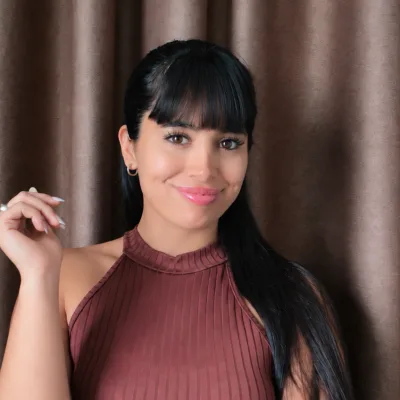
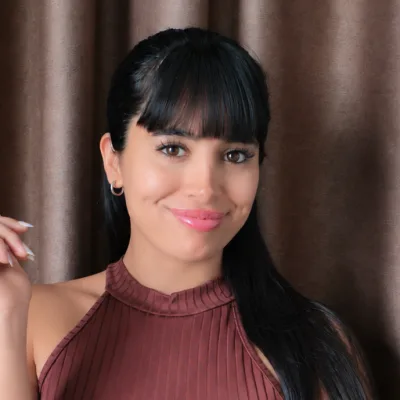
Move testimonials into the existing carousel; tighten portrait crops
The screenshots belong in the carousel that was already in the
"Lo que están logrando nuestras alumnas" section, not in a separate
grid. Drop the grid added in 60c13d8 and put the 8 screenshots in the
carousel as slides, one per .lp-test-card, replacing the placeholder
cards. Track, arrows, snap and drag behaviour are untouched: it still
swipes with arrows on mobile and becomes a full-width grid from 900px.
Images keep loading="lazy" and their intrinsic width/height.

Cards now hug their content height (align-self: flex-start). The
screenshots differ a lot in aspect ratio, and the default stretch left
a large empty area under the shorter ones.

Re-crop both portraits from the originals, framed on the head rather
than the image centre: the crop is now 2.6x the detected face box
starting just above the hairline, so the head sits near the top of the
circle and the shoulders are visible. Same 400x400 WebP q82 output and
same filenames; the circle itself is unchanged.

diff --git a/index.html b/index.html
@@ -676,25 +676,6 @@
      Comportamiento técnico: overflow-x scroll + snap, igual a la referencia.
      ========================================================================== */
   .lp-testimonials { padding: 72px 0; }
-
-  /* Capturas reales de alumnas: grilla tipo mosaico (columnas) para que las
-     capturas de distinta altura queden compactas. 1 columna en celular. */
-  .lp-test-shots {
-    columns: 1;
-    column-gap: 18px;
-    margin-bottom: 40px;
-  }
-  .lp-test-shot {
-    break-inside: avoid;
-    margin: 0 0 18px;
-    background: var(--bg-card);
-    border: 1px solid var(--violet-border);
-    border-radius: var(--radius-md);
-    overflow: hidden;
-    box-shadow: 0 12px 30px rgba(0, 0, 0, 0.3);
-  }
-  .lp-test-shot img { display: block; width: 100%; height: auto; }
-
   .lp-test-wrap { position: relative; }
   .lp-test-track {
     display: flex;
@@ -710,6 +691,7 @@
   .lp-test-track::-webkit-scrollbar { display: none; }
   .lp-test-card {
     flex: 0 0 280px;
+    align-self: flex-start;
     background: var(--bg-card);
     border: 1px solid var(--violet-border);
     border-radius: var(--radius-md);
@@ -719,6 +701,14 @@
     display: flex;
     flex-direction: column;
     gap: 14px;
+  }
+  /* Captura de testimonio dentro de la tarjeta: ocupa el ancho disponible y
+     conserva su proporción. La tarjeta (fondo, borde, radio, padding) no cambia. */
+  .lp-test-card img {
+    display: block;
+    width: 100%;
+    height: auto;
+    border-radius: var(--radius-sm);
   }
   .lp-test-quote {
     font-size: 15px;
@@ -838,14 +828,8 @@
     .lp-modules { gap: 26px; }
   }
 
-  @media (min-width: 640px) {
-    .lp-test-shots { columns: 2; }
-  }
-
   @media (min-width: 900px) {
     .lp-container, .lp-container-narrow { padding: 0 24px; }
-
-    .lp-test-shots { columns: 3; column-gap: 20px; }
 
     /* Testimonios en desktop: grilla a todo el ancho del contenedor, sin carrusel ni flechas.
        auto-fit reparte el ancho entre las tarjetas que haya (3, 4, 5...). */
@@ -1083,10 +1067,9 @@
 
   <!-- ======================================================================
        BLOQUE 8 — TESTIMONIOS (carrusel horizontal)
-       ⚠ Sin testimonios reales confirmados todavía. Las tarjetas de abajo son
-       PLACEHOLDER — reemplazar por capturas / videos / resultados reales
-       apenas estén disponibles (o por capturas del propio proceso/facturación
-       de Ahilu y Cami, según se definió como alternativa temporal).
+       Capturas reales de alumnas (assets/testimonios/), una por slide.
+       Se mantiene el comportamiento del carrusel: scroll con snap + drag +
+       flechas en mobile, y grilla a todo el ancho desde 900px.
        ====================================================================== -->
 
   <section class="lp-testimonials">
@@ -1096,85 +1079,47 @@
       </div>
     </div>
 
-    <div class="lp-container">
-      <!-- CAPTURAS REALES DE TESTIMONIOS (carpeta assets/testimonios/) -->
-      <div class="lp-test-shots">
-        <figure class="lp-test-shot">
-          <img src="assets/testimonios/12e0bf77-874f-4ea8-b1c7-926820a0f253.webp" width="800" height="1008" loading="lazy" decoding="async" alt="Captura del mensaje de Nelsy, alumna: facturó más de 15 millones en 17 días, con 6.000.000 de ganancia limpia y un pico de 125 ventas en un solo día.">
-        </figure>
-        <figure class="lp-test-shot">
-          <img src="assets/testimonios/img-5481.webp" width="765" height="979" loading="lazy" decoding="async" alt="Captura del mensaje de Ro, alumna: llegó por primera vez a 40 ventas diarias, con 903,9 mil pesos en ventas totales, y cuenta que ya factura más de lo que ganaba en su antiguo trabajo.">
-        </figure>
-        <figure class="lp-test-shot">
-          <img src="assets/testimonios/img-5483.webp" width="781" height="999" loading="lazy" decoding="async" alt="Captura del mensaje de Nahue, alumno: 24,49 millones de pesos facturados en los últimos 30 días con más de 1.000 pedidos.">
-        </figure>
-        <figure class="lp-test-shot">
-          <img src="assets/testimonios/img-5485.webp" width="800" height="1112" loading="lazy" decoding="async" alt="Captura del mensaje de Mica, alumna: 3.012.506 pesos facturados en 7 días con 118 pedidos, duplicando su sueldo en una semana.">
-        </figure>
-        <figure class="lp-test-shot">
-          <img src="assets/testimonios/img-5486.webp" width="800" height="877" loading="lazy" decoding="async" alt="Captura del mensaje de Vale, alumna: 555 mil pesos en ventas totales del día con 26 pedidos en su tienda de libros digitales.">
-        </figure>
-        <figure class="lp-test-shot">
-          <img src="assets/testimonios/img-5489.webp" width="800" height="1064" loading="lazy" decoding="async" alt="Captura del mensaje de Fede, alumno: saldo de 15.509.104 pesos en su cuenta tras hacer récord de ventas en 15 días.">
-        </figure>
-        <figure class="lp-test-shot">
-          <img src="assets/testimonios/img-5490.webp" width="800" height="1368" loading="lazy" decoding="async" alt="Captura del mensaje de Nicole, alumna: 3.702.817 pesos en ventas totales del día con 182 pedidos, su día récord de ventas.">
-        </figure>
-        <figure class="lp-test-shot">
-          <img src="assets/testimonios/img-5491.webp" width="800" height="1494" loading="lazy" decoding="async" alt="Captura del chat de Tomás, alumno: vendió 21 ebooks en un solo día, casi 800 mil pesos, con las capturas de ventas de sus dos tiendas.">
-        </figure>
-      </div>
-    </div>
-
     <div class="lp-test-wrap">
       <div class="lp-test-track" id="testTrack">
 
-        <!-- TESTIMONIO PLACEHOLDER 1 -->
+        <!-- TESTIMONIO 1 -->
         <div class="lp-test-card">
-          <p class="lp-test-quote">"[Testimonio pendiente]"</p>
-          <div class="lp-test-meta">
-            <div class="lp-test-avatar"></div>
-            <div>
-              <div class="lp-test-name">[Nombre pendiente]</div>
-              <div class="lp-test-role">[Resultado pendiente]</div>
-            </div>
-          </div>
+          <img src="assets/testimonios/12e0bf77-874f-4ea8-b1c7-926820a0f253.webp" width="800" height="1008" loading="lazy" decoding="async" alt="Captura del mensaje de Nelsy, alumna: facturó más de 15 millones en 17 días, con 6.000.000 de ganancia limpia y un pico de 125 ventas en un solo día.">
         </div>
 
-        <!-- TESTIMONIO PLACEHOLDER 2 -->
+        <!-- TESTIMONIO 2 -->
         <div class="lp-test-card">
-          <p class="lp-test-quote">"[Testimonio pendiente]"</p>
-          <div class="lp-test-meta">
-            <div class="lp-test-avatar"></div>
-            <div>
-              <div class="lp-test-name">[Nombre pendiente]</div>
-              <div class="lp-test-role">[Resultado pendiente]</div>
-            </div>
-          </div>
+          <img src="assets/testimonios/img-5481.webp" width="765" height="979" loading="lazy" decoding="async" alt="Captura del mensaje de Ro, alumna: llegó por primera vez a 40 ventas diarias, con 903,9 mil pesos en ventas totales, y cuenta que ya factura más de lo que ganaba en su antiguo trabajo.">
         </div>
 
-        <!-- TESTIMONIO PLACEHOLDER 3 -->
+        <!-- TESTIMONIO 3 -->
         <div class="lp-test-card">
-          <p class="lp-test-quote">"[Testimonio pendiente]"</p>
-          <div class="lp-test-meta">
-            <div class="lp-test-avatar"></div>
-            <div>
-              <div class="lp-test-name">[Nombre pendiente]</div>
-              <div class="lp-test-role">[Resultado pendiente]</div>
-            </div>
-          </div>
+          <img src="assets/testimonios/img-5483.webp" width="781" height="999" loading="lazy" decoding="async" alt="Captura del mensaje de Nahue, alumno: 24,49 millones de pesos facturados en los últimos 30 días con más de 1.000 pedidos.">
         </div>
 
-        <!-- TESTIMONIO PLACEHOLDER 4 -->
+        <!-- TESTIMONIO 4 -->
         <div class="lp-test-card">
-          <p class="lp-test-quote">"[Testimonio pendiente]"</p>
-          <div class="lp-test-meta">
-            <div class="lp-test-avatar"></div>
-            <div>
-              <div class="lp-test-name">[Nombre pendiente]</div>
-              <div class="lp-test-role">[Resultado pendiente]</div>
-            </div>
-          </div>
+          <img src="assets/testimonios/img-5485.webp" width="800" height="1112" loading="lazy" decoding="async" alt="Captura del mensaje de Mica, alumna: 3.012.506 pesos facturados en 7 días con 118 pedidos, duplicando su sueldo en una semana.">
+        </div>
+
+        <!-- TESTIMONIO 5 -->
+        <div class="lp-test-card">
+          <img src="assets/testimonios/img-5486.webp" width="800" height="877" loading="lazy" decoding="async" alt="Captura del mensaje de Vale, alumna: 555 mil pesos en ventas totales del día con 26 pedidos en su tienda de libros digitales.">
+        </div>
+
+        <!-- TESTIMONIO 6 -->
+        <div class="lp-test-card">
+          <img src="assets/testimonios/img-5489.webp" width="800" height="1064" loading="lazy" decoding="async" alt="Captura del mensaje de Fede, alumno: saldo de 15.509.104 pesos en su cuenta tras hacer récord de ventas en 15 días.">
+        </div>
+
+        <!-- TESTIMONIO 7 -->
+        <div class="lp-test-card">
+          <img src="assets/testimonios/img-5490.webp" width="800" height="1368" loading="lazy" decoding="async" alt="Captura del mensaje de Nicole, alumna: 3.702.817 pesos en ventas totales del día con 182 pedidos, su día récord de ventas.">
+        </div>
+
+        <!-- TESTIMONIO 8 -->
+        <div class="lp-test-card">
+          <img src="assets/testimonios/img-5491.webp" width="800" height="1494" loading="lazy" decoding="async" alt="Captura del chat de Tomás, alumno: vendió 21 ebooks en un solo día, casi 800 mil pesos, con las capturas de ventas de sus dos tiendas.">
         </div>
 
       </div>
